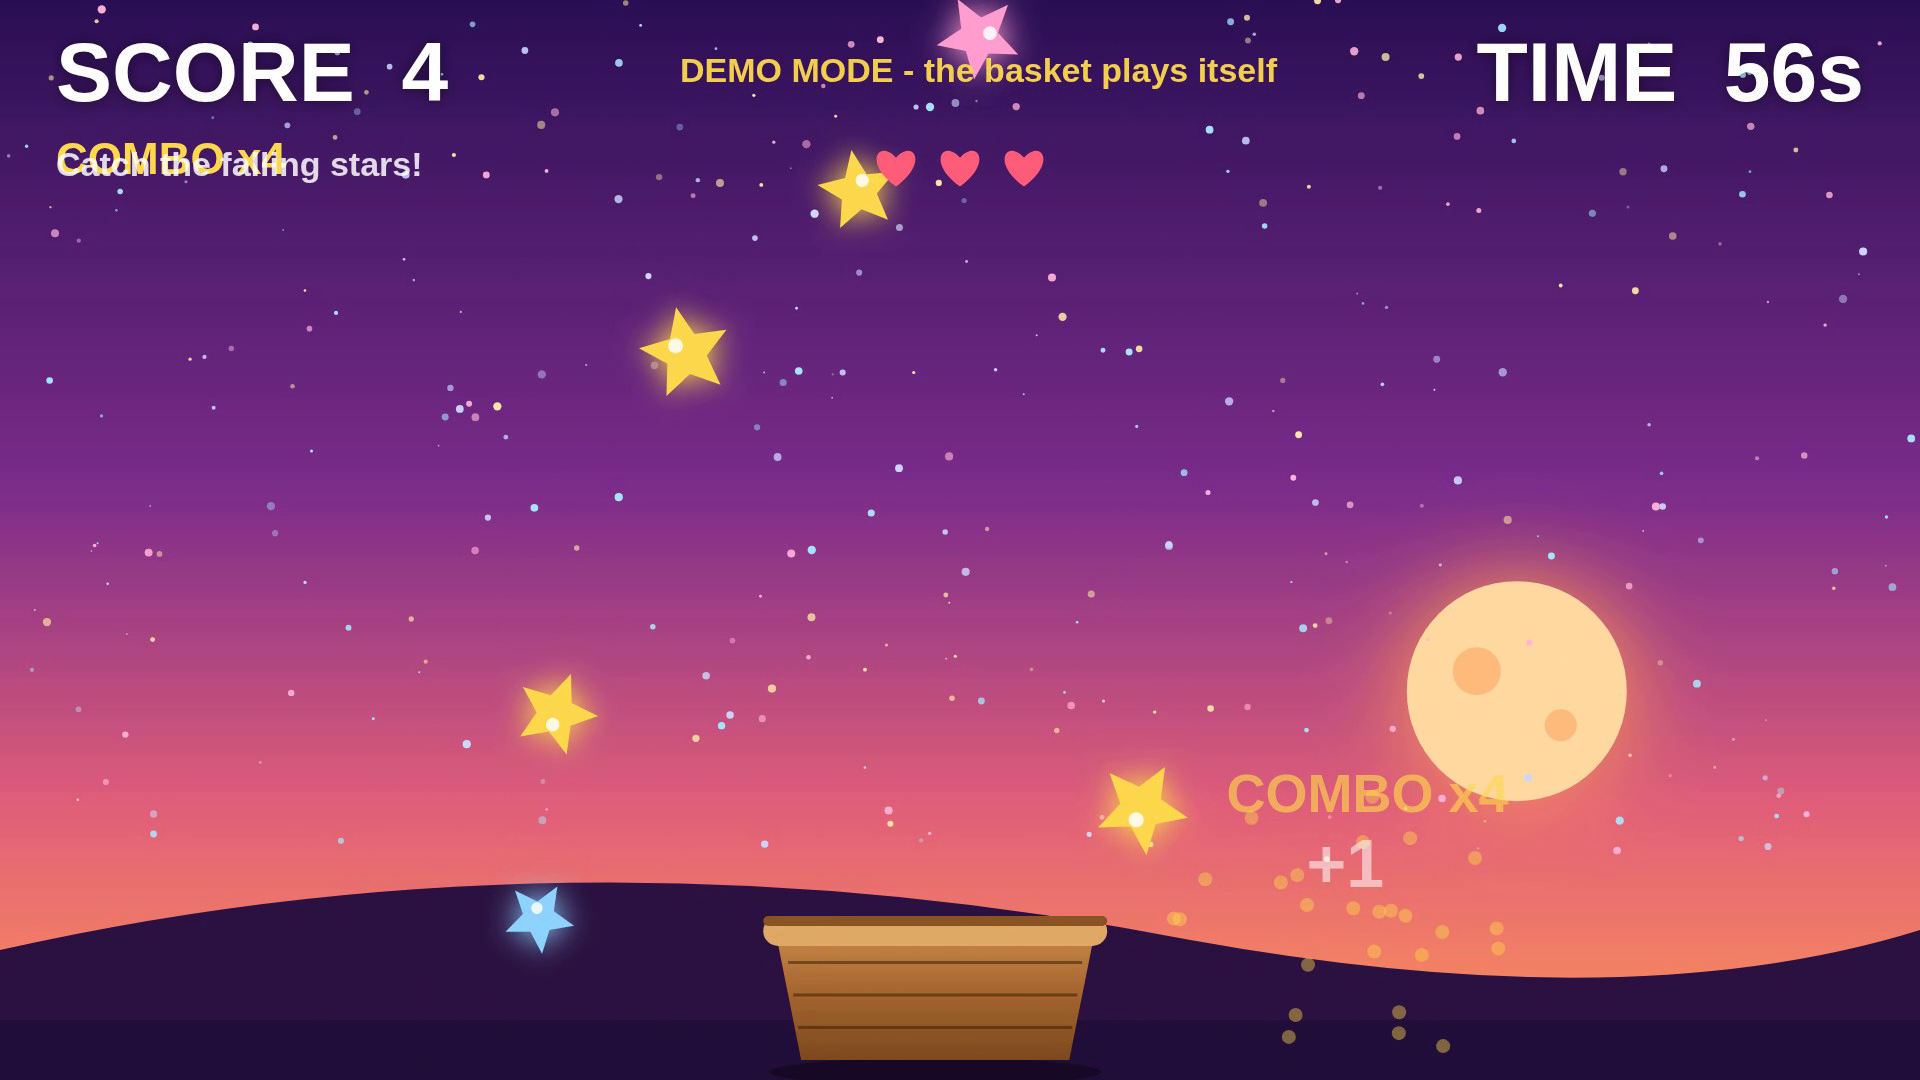
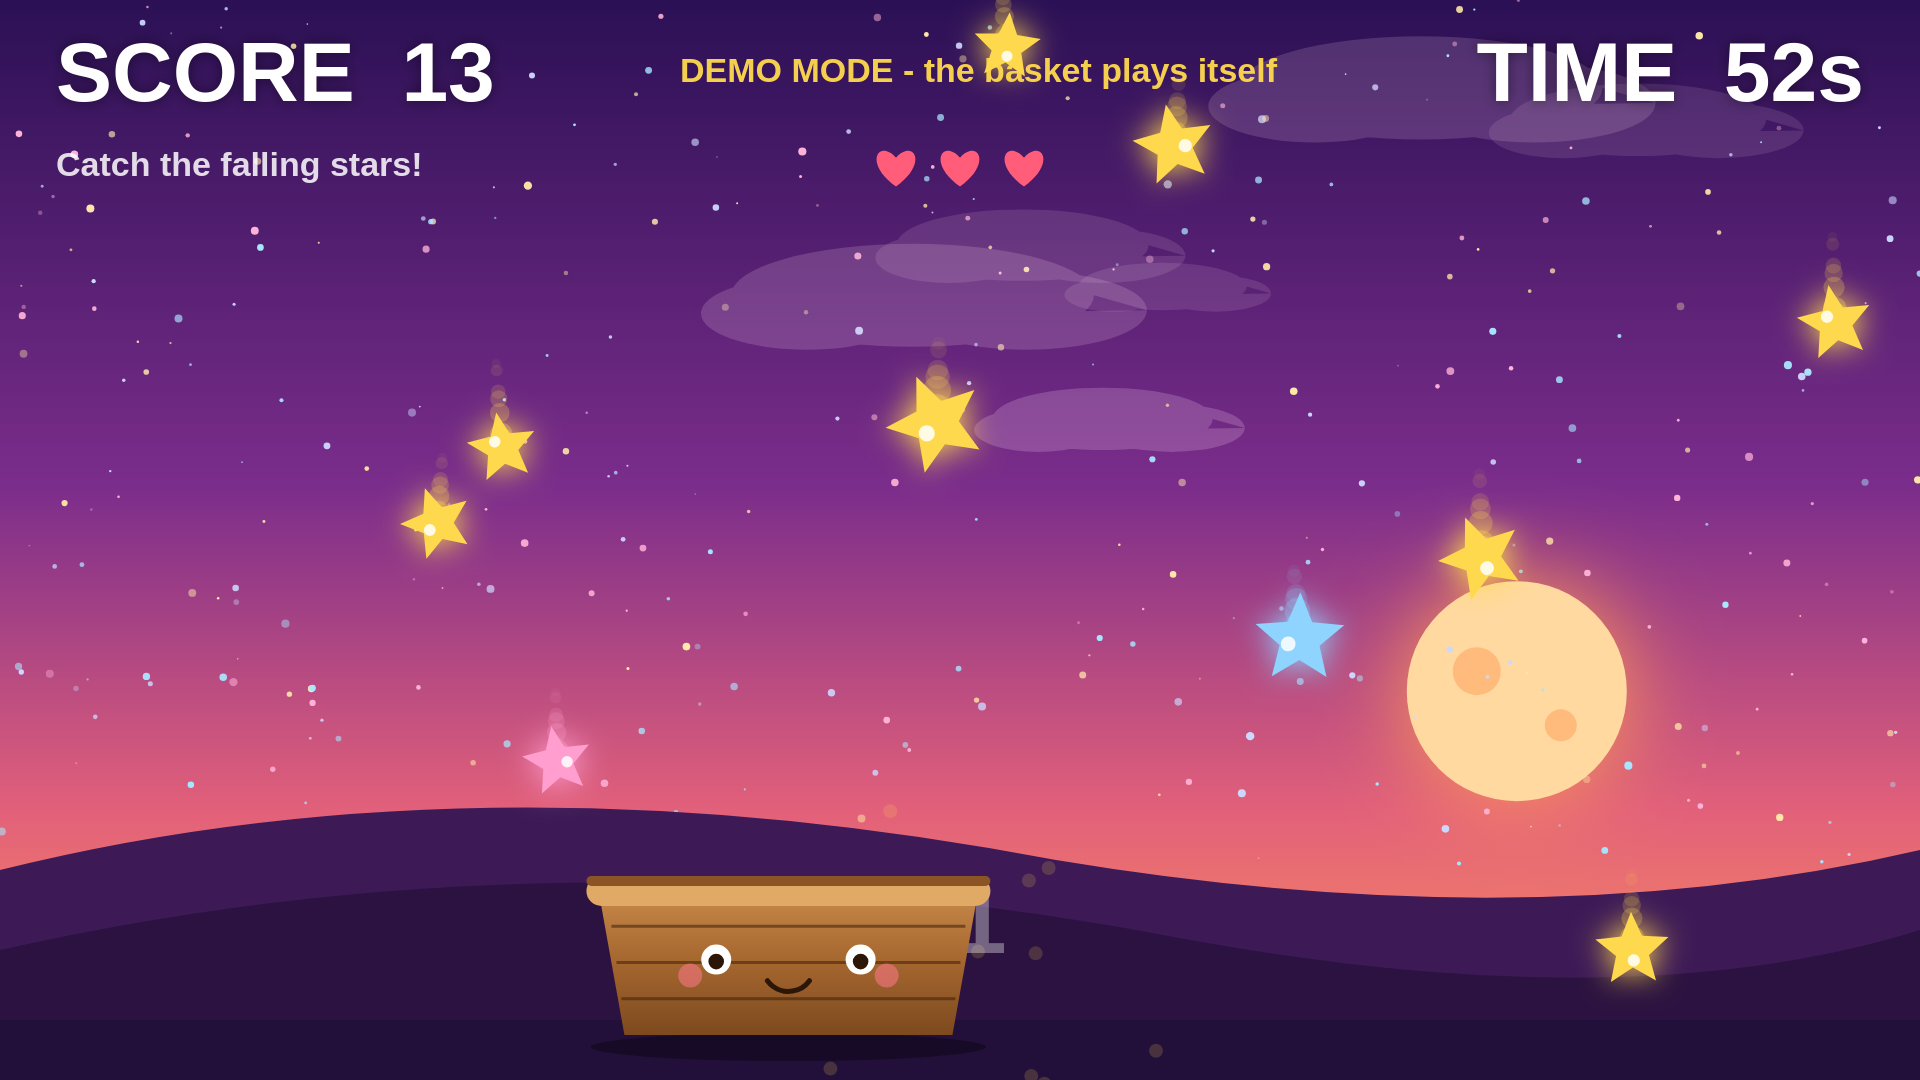
Star Catcher v3: dense sky, character basket, trails and gold stars

diff --git a/game.html b/game.html
@@ -46,7 +46,7 @@
   var spawnTimer = 0;
   var caughtStreak = 0;
 
-  var basket = { x: W / 2 - 160 * S, y: H - 150 * S, w: 320 * S, h: 130 * S, speed: 1250 * SX };
+  var basket = { x: W / 2 - 190 * S, y: H - 190 * S, w: 380 * S, h: 145 * S, speed: 1250 * SX }; // bottom rests on the ground band, never clipped by the canvas edge
   var keys = { left: false, right: false };
 
   // ---- background stars (twinkle, bigger and colourful for a bright sunset sky) ----
@@ -60,14 +60,24 @@
   // ---- setting sun ----
   var moon = { x: W * 0.79, y: H * 0.64, r: 110 * S };
 
+  // ---- drifting clouds (soft pink, slow, for a full sky) ----
+  var clouds = [];
+  for (var ci = 0; ci < 6; ci++) {
+    clouds.push({ x: Math.random() * W, y: H * (0.08 + Math.random() * 0.32),
+      s: (0.7 + Math.random() * 0.9) * S, v: (10 + Math.random() * 18) * SX,
+      a: 0.10 + Math.random() * 0.10 });
+  }
+
   function rand(a, b) { return a + Math.random() * (b - a); }
 
   function spawnStar() {
     var speed = rand(300, 480) * SY + (GAME_SECONDS - timeLeft) * 2.2; // gently faster late
+    var superStar = Math.random() < 0.09; // rare big golden bonus star
     stars.push({
       x: rand(60, W - 60), y: -50,
       vy: speed, vx: rand(-35, 35) * SX,
-      r: rand(34, 52) * S, rot: rand(0, Math.PI * 2), vr: rand(-1.4, 1.4),
+      r: (superStar ? rand(58, 72) : rand(34, 52)) * S, rot: rand(0, Math.PI * 2), vr: rand(-1.4, 1.4),
+      superStar: superStar, trail: [],
       hue: (function () { var q = Math.random(); return q < 0.2 ? "pink" : q < 0.34 ? "blue" : "gold"; })()
     });
   }
@@ -98,6 +108,10 @@
     caughtStreak += 1;
     var c = s.hue === "pink" ? "#ff9ecf" : s.hue === "blue" ? "#8fd3ff" : "#ffd94d";
     burst(s.x, s.y, c);
+    if (s.superStar) {
+      burst(s.x, s.y, "#fff3b0");
+      floats.push({ x: s.x, y: s.y - 110, text: "GOLD!", life: 1.2, max: 1.2, gold: true });
+    }
     floats.push({ x: s.x, y: s.y - 20, text: "+1", life: 0.9, max: 0.9, big: true });
     if (caughtStreak >= 3) {
       floats.push({ x: s.x, y: s.y - 95, text: "COMBO x" + caughtStreak, life: 1.1, max: 1.1, combo: true });
@@ -107,6 +121,11 @@
   function update(dt) {
     // twinkle
     for (var i = 0; i < sky.length; i++) sky[i].p += dt * sky[i].s;
+    // clouds drift across the sky, wrap around
+    for (var ci = 0; ci < clouds.length; ci++) {
+      clouds[ci].x += clouds[ci].v * dt;
+      if (clouds[ci].x - 220 * clouds[ci].s > W) clouds[ci].x = -220 * clouds[ci].s;
+    }
 
     // basket movement: demo autopilot follows the lowest falling star
     var target = null, lowest = -1;
@@ -135,12 +154,16 @@
     spawnTimer -= dt;
     if (spawnTimer <= 0) {
       spawnStar();
-      spawnTimer = Math.max(0.22, 0.5 - (GAME_SECONDS - timeLeft) * 0.004);
+      if (Math.random() < 0.35) spawnStar(); // often two at once: a busy sky
+      spawnTimer = Math.max(0.16, 0.30 - (GAME_SECONDS - timeLeft) * 0.003);
     }
 
     for (var k = stars.length - 1; k >= 0; k--) {
       var s = stars[k];
       s.y += s.vy * dt; s.x += s.vx * dt; s.rot += s.vr * dt;
+      // trail: remember recent positions for a comet tail
+      s.trail.push({ x: s.x, y: s.y });
+      if (s.trail.length > 9) s.trail.shift();
       // catch: star centre inside basket mouth
       if (s.y + s.r * 0.5 >= basket.y + 6 && s.y < basket.y + basket.h &&
           s.x > basket.x - 10 && s.x < basket.x + basket.w + 10) {
@@ -212,6 +235,19 @@
     ctx.beginPath(); ctx.roundRect(x - 12 * S, y - 14 * S, w + 24 * S, 30 * S, 15 * S); ctx.fill();
     ctx.fillStyle = "#8a5424";
     ctx.beginPath(); ctx.roundRect(x - 12 * S, y - 14 * S, w + 24 * S, 10 * S, 5 * S); ctx.fill();
+    // cute face on the basket body: eyes, smile, rosy cheeks
+    var eyeY = y + h * 0.48, eyeDX = w * 0.19, eyeR = 15 * S;
+    ctx.fillStyle = "#ffffff";
+    ctx.beginPath(); ctx.arc(x + w / 2 - eyeDX, eyeY, eyeR, 0, Math.PI * 2); ctx.fill();
+    ctx.beginPath(); ctx.arc(x + w / 2 + eyeDX, eyeY, eyeR, 0, Math.PI * 2); ctx.fill();
+    ctx.fillStyle = "#2b1608";
+    ctx.beginPath(); ctx.arc(x + w / 2 - eyeDX, eyeY + 2 * S, eyeR * 0.52, 0, Math.PI * 2); ctx.fill();
+    ctx.beginPath(); ctx.arc(x + w / 2 + eyeDX, eyeY + 2 * S, eyeR * 0.52, 0, Math.PI * 2); ctx.fill();
+    ctx.strokeStyle = "#2b1608"; ctx.lineWidth = 5 * S; ctx.lineCap = "round";
+    ctx.beginPath(); ctx.arc(x + w / 2, y + h * 0.52, 26 * S, Math.PI * 0.2, Math.PI * 0.8); ctx.stroke();
+    ctx.fillStyle = "rgba(255,120,140,0.55)";
+    ctx.beginPath(); ctx.arc(x + w / 2 - eyeDX - 26 * S, eyeY + 16 * S, 12 * S, 0, Math.PI * 2); ctx.fill();
+    ctx.beginPath(); ctx.arc(x + w / 2 + eyeDX + 26 * S, eyeY + 16 * S, 12 * S, 0, Math.PI * 2); ctx.fill();
     ctx.restore();
   }
 
@@ -286,6 +322,25 @@
       ctx.beginPath(); ctx.arc(s.x, s.y, s.r, 0, Math.PI * 2); ctx.fill();
     }
     ctx.globalAlpha = 1;
+    // drifting clouds
+    for (var ci = 0; ci < clouds.length; ci++) {
+      var cl = clouds[ci];
+      ctx.save();
+      ctx.globalAlpha = cl.a;
+      ctx.fillStyle = "#ffd9ec";
+      ctx.beginPath();
+      ctx.ellipse(cl.x, cl.y, 120 * cl.s, 34 * cl.s, 0, 0, Math.PI * 2);
+      ctx.ellipse(cl.x - 70 * cl.s, cl.y + 12 * cl.s, 70 * cl.s, 24 * cl.s, 0, 0, Math.PI * 2);
+      ctx.ellipse(cl.x + 75 * cl.s, cl.y + 10 * cl.s, 80 * cl.s, 26 * cl.s, 0, 0, Math.PI * 2);
+      ctx.fill();
+      ctx.restore();
+    }
+    // far hills (lighter, for depth)
+    ctx.fillStyle = "#3d1a56";
+    ctx.beginPath(); ctx.moveTo(0, H); ctx.lineTo(0, H - 210);
+    ctx.quadraticCurveTo(W * 0.25, H - 330, W * 0.55, H - 220);
+    ctx.quadraticCurveTo(W * 0.8, H - 140, W, H - 230);
+    ctx.lineTo(W, H); ctx.closePath(); ctx.fill();
     // hills
     ctx.fillStyle = "#2b1240";
     ctx.beginPath(); ctx.moveTo(0, H); ctx.lineTo(0, H - 130);
@@ -299,7 +354,22 @@
     if (state === "playing" || state === "over") {
       for (var j = 0; j < stars.length; j++) {
         var st = stars[j];
-        drawStar(st.x, st.y, st.r, st.rot, st.hue === "pink" ? "#ff9ecf" : st.hue === "blue" ? "#8fd3ff" : "#ffd94d");
+        // comet trail: fading dots behind the star
+        var tcol = st.hue === "pink" ? "#ff9ecf" : st.hue === "blue" ? "#8fd3ff" : "#ffd94d";
+        for (var ti = 0; ti < st.trail.length; ti++) {
+          var tp = st.trail[ti];
+          ctx.globalAlpha = (ti / st.trail.length) * 0.45;
+          ctx.fillStyle = tcol;
+          ctx.beginPath(); ctx.arc(tp.x, tp.y, st.r * 0.32 * (ti / st.trail.length + 0.3), 0, Math.PI * 2); ctx.fill();
+        }
+        ctx.globalAlpha = 1;
+        drawStar(st.x, st.y, st.r, st.rot, tcol);
+        if (st.superStar) {
+          ctx.globalAlpha = 0.55 + 0.45 * Math.sin(performance.now() / 90);
+          ctx.strokeStyle = "#fff3b0"; ctx.lineWidth = 4 * S;
+          ctx.beginPath(); ctx.arc(st.x, st.y, st.r * 1.35, 0, Math.PI * 2); ctx.stroke();
+          ctx.globalAlpha = 1;
+        }
       }
       for (var m = 0; m < sparks.length; m++) {
         var p = sparks[m];
@@ -311,14 +381,18 @@
       for (var n = 0; n < floats.length; n++) {
         var f = floats[n];
         ctx.globalAlpha = Math.max(0, f.life / f.max);
-        if (f.combo) {
+        if (f.gold) {
+          ctx.fillStyle = "#fff3b0";
+          ctx.font = "900 " + Math.round(72 * S) + "px 'Segoe UI', Arial, sans-serif";
+          ctx.fillText(f.text, f.x - 95 * SX, f.y);
+        } else if (f.combo) {
           ctx.fillStyle = "#ffd94d";
-          ctx.font = "900 " + Math.round(54 * S) + "px 'Segoe UI', Arial, sans-serif";
-          ctx.fillText(f.text, f.x - 110 * SX, f.y);
+          ctx.font = "900 " + Math.round(64 * S) + "px 'Segoe UI', Arial, sans-serif";
+          ctx.fillText(f.text, f.x - 130 * SX, f.y);
         } else {
           ctx.fillStyle = "#ffffff";
-          ctx.font = "900 " + Math.round(68 * S) + "px 'Segoe UI', Arial, sans-serif";
-          ctx.fillText(f.text, f.x - 30 * SX, f.y);
+          ctx.font = "900 " + Math.round(96 * S) + "px 'Segoe UI', Arial, sans-serif";
+          ctx.fillText(f.text, f.x - 42 * SX, f.y);
         }
       }
       ctx.globalAlpha = 1;
